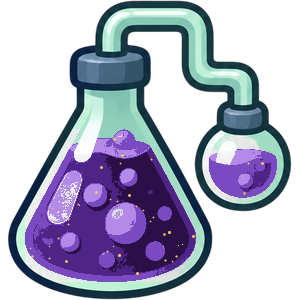
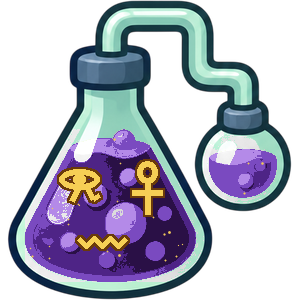
Ancient dye: gold hieroglyphs; top streak and coin pills centered at the same height
Claude-Session: https://claude.ai/code/session_016T1x9t3fXLSJ9Wj3N5qPHM

diff --git a/App.tsx b/App.tsx
@@ -454,7 +454,7 @@ const styles = StyleSheet.create({
   scrollHome: { paddingHorizontal: 0, paddingTop: 0, maxWidth: undefined },
   brand: { fontSize: 24, fontWeight: '900', color: colors.ink },
   pills: { flexDirection: 'row', gap: 6 },
-  pill: { backgroundColor: colors.card, borderRadius: 999, paddingHorizontal: 10, paddingVertical: 6 },
+  pill: { backgroundColor: colors.card, borderRadius: 999, paddingHorizontal: 12, height: 40, flexDirection: 'row', alignItems: 'center', justifyContent: 'center' },
   pillText: { fontWeight: '800', fontSize: 13, color: colors.ink },
   signIn: { backgroundColor: colors.mint, borderColor: colors.mint },
   scroll: { padding: space.lg, paddingTop: space.sm, paddingBottom: 40, gap: space.md, maxWidth: 520, width: '100%', alignSelf: 'center' },

diff --git a/scripts/make_bottles2.py b/scripts/make_bottles2.py
@@ -7,7 +7,7 @@ Usage: python3 scripts/make_bottles2.py <lab pack png folder> assets
 """
 import sys, os
 import numpy as np
-from PIL import Image
+from PIL import Image, ImageFilter
 
 src, out = sys.argv[1], sys.argv[2]
 SIZE = 300
@@ -84,9 +84,41 @@ def dye(skin, shape):
         idx = np.stack([(yy - py[i]) ** 2 + (xx - px[i]) ** 2 for i in range(k)]).argmin(0)
         col = tones[np.clip(level + tilt[idx], 0, 3)]
     add = []
+    post = []
     if skin in ('galaxy',): add = [(specks(liq, 34, 3, 1.2, 2.4), '#ffffff'), (specks(liq, 10, 4, 1, 1.8), '#9fe6ff')]
     if skin == 'moonlit': add = [(specks(liq, 10, 5, 1.4, 2.6), '#fff3b0')]
-    if skin == 'ancient': add = [(specks(liq, 40, 6, 1, 2), '#f0c75a')]
+    if skin == 'ancient':
+        # Gold hieroglyphs carved into the liquid: an eye, an ankh, a feather and a zigzag (water).
+        from PIL import ImageDraw
+        g = Image.new('L', (SIZE, SIZE), 0); d = ImageDraw.Draw(g)
+        main = liq * (xx < SIZE * 0.68)
+        ys, xs = np.nonzero(main)
+        x0, x1, y0, y1 = xs.min(), xs.max(), ys.min(), ys.max()
+        cxs = [x0 + (x1 - x0) * f for f in (0.32, 0.72)]
+        cys = [y0 + (y1 - y0) * f for f in (0.33, 0.72)]
+        L = 6
+        def eye(cx, cy):
+            d.ellipse([cx - 20, cy - 10, cx + 20, cy + 10], outline=255, width=L)
+            d.ellipse([cx - 6, cy - 6, cx + 6, cy + 6], fill=255)
+            d.line([cx - 2, cy + 10, cx - 8, cy + 22], fill=255, width=L)
+            d.line([cx + 8, cy + 9, cx + 14, cy + 20, cx + 20, cy + 16], fill=255, width=L - 1)
+        def ankh(cx, cy):
+            d.ellipse([cx - 10, cy - 28, cx + 10, cy - 6], outline=255, width=L)
+            d.line([cx, cy - 6, cx, cy + 25], fill=255, width=L)
+            d.line([cx - 15, cy + 3, cx + 15, cy + 3], fill=255, width=L)
+        def feather(cx, cy):
+            d.line([cx, cy - 25, cx, cy + 25], fill=255, width=L - 1)
+            d.ellipse([cx - 10, cy - 28, cx + 10, cy + 8], outline=255, width=L - 1)
+        def zig(cx, cy):
+            pts = [(cx - 25 + i * 8, cy + (4 if i % 2 else -4)) for i in range(7)]
+            d.line(pts, fill=255, width=L, joint='curve')
+        eye(cxs[0], cys[0]); ankh(cxs[1], cys[0] + 10); zig((cxs[0] + cxs[1]) / 2 - 10, cys[1] + 4)
+        from scipy import ndimage
+        inside = ndimage.binary_fill_holes(ndimage.binary_closing(liq > 0, iterations=4)).astype(np.float32)
+        glyph = np.asarray(g, dtype=np.float32) / 255 * inside
+        edge = np.clip(np.asarray(Image.fromarray((glyph * 255).astype(np.uint8)).filter(ImageFilter.MaxFilter(5)), dtype=np.float32) / 255 - glyph, 0, 1) * inside
+        add = [(specks(liq, 24, 6, 1, 1.8), '#f0c75a')]
+        post = [(edge, '#6a3a0a'), (glyph, '#f6cf55')]
     if skin in ('slime', 'ocean'): add = [(specks(liq * (t < 0.8), 9, 8, 3, 6.5), '#ffffff')]
     if skin == 'sakura': add = [(specks(liq, 8, 9, 3, 5), '#fff0f6')]
     if skin == 'shadow':
@@ -101,6 +133,8 @@ def dye(skin, shape):
     grey = a[..., :3].mean(-1, keepdims=True)
     a[..., :3] = a[..., :3] * (1 - shine[..., None]) + np.clip(grey * 1.08, 0, 255) * shine[..., None]
     rgb = a[..., :3] * (1 - liq[..., None]) + col * liq[..., None]
+    for m, c in post:
+        rgb = rgb * (1 - m[..., None]) + hexc(c) * m[..., None]
     return Image.fromarray(np.dstack([rgb, a[..., 3]]).astype(np.uint8), 'RGBA')
 
 os.makedirs(f'{out}/dyes', exist_ok=True); os.makedirs(f'{out}/potions', exist_ok=True)
